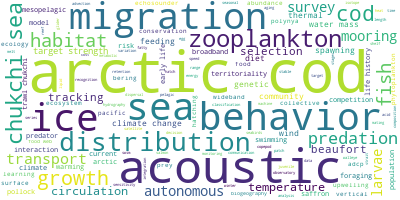
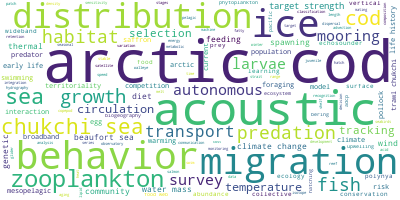
spencer

diff --git a/papers/pacificArctic/fishes/Spencer2020PB.md b/papers/pacificArctic/fishes/Spencer2020PB.md
@@ -1,0 +1,35 @@
+06/03/20
+## Authors:
+Spencer, Mara L. and Vestfals, Cathleen D. and Mueter, Franz J. and Laurel, Benjamin J.
+## Title:
+Ontogenetic changes in the buoyancy and salinity tolerance of eggs and larvae of polar cod (Boreogadus saida) and other gadids
+## Keywords:
+arctic cod, development, egg, egg density, salinity tolerance
+## Geographic Coverage
+N/A
+## Field Dates:
+N/A
+## Significance:
+
+## Notes:
+Climate change in the Arctic and subarctic can change the spatio-temporal dynamics through changes in water inputs and movement, altering dispersal pathways. Early life stage survival depends on the environment in particular the potential to be advected into/across unsuitable habitats. The specific gravity of these eggs and larvae controls the vertical distribution and thus the conditions they are exposed to.
+
+Here, they conduct lab studies to compare the buoyancy and acute salinity of the four dominant north pacific gadid species to test if 1) egg densities for arctic cod match salinities for surface development while pollock for midwater, 2) polar and saffron cod are better suited for abrupt changes in salinity.
+
+Eggs were collected from the AFSC broodstock. Egg and larval specific gravities/densities were determined based on sinking rate at fixed temperature and salinities. Salinity tolerances were tested by putting larvae in beakers of 0,1,2,3,5,ambient, and 35 psu. Preliminary tests of 15 PSU showed no impact hence the lower values. Salinity tolerance was modeled as separate logistic regressions split at 11 psu. Model values from PAROMS were used to identify surface conditions and identify where you would expect positive/negative egg buoyancies based on results.
+
+Arctic cod eggs were more buyant than pollock, and both were more buoyant than pacific cod, with significant density differences among the species prior to hatch. Pacific cod eggs appear to become more buoyant as they develop. As Larvae, pollock and arctic cod buoyancy was identical and positively buoyant. Pcod and saffron cod were also similar and negatively buoyant, though less so than as eggs.
+
+Density significantly changed in Arctic cod from late egg to 2-week post-hatch. Densities varied significantly across batches, however survival was lower with eggs having densities outside of the "middle" range. The inclusion/removal of these batches did not change the significance of the results.
+
+The best fitting models for salinity tolerance were those that considered each species or species and development stage. Salinity tolerance was lost at later development for Acod and pollock, though this was not significant for Acod.at 0-3 weeks post hatch, tolerance was similar, where there was low survival at 0, rapidly increasing to 100% at 5 psu. By 6 wph, this declined, with 100% mortality up to 3 psu. Arctic and saffron cod exhibited similar responses, with 100% survival by 5, and slight reduction at the highest values.
+
+Spatially, Arctic cod eggs were more buoyant than the surface waters in most of the bering/chukchi/beaufort except in the region of direct input from the yukon river. Pollock were positively buoyant on the outer but negatively buyant on the inner and middle shelves.
+
+Conclusions
+- Arctic cod eggs would be retained under sea ice if ice is present at the time of spawning
+- Larval densities converge post-hatch, and for polar cod are similar to the late egg stages
+- Changes in ertical position in the water column are less likely to be the result of density and more so swimming ability and behavioral cues
+- Batch variation could be the result of maternal influence
+- Arctic species were more salinity tolerant than subarctic species and survived short-term exposure to low/no salinity environments, and egg salinities may be more sensitive to salinities up to ~15 PSU
+- Eggs near the surface on the shelf could mean increased ice exposure, which could be lethal for species such as pollock, or increased light exposure for Acod in low ice conditions resulting in increased predation or UV damage.

diff --git a/README.md b/README.md
@@ -314,6 +314,8 @@ Notes (author, year, journal in file header) on readings.  Top of each note docu
      * This was the first fisheries survey of Arctic cod in the NE Chukchi (as far as I know), and showed that there were primarily young of the year A. cod, with a depth-dependent density.  Quast also speculates about the origin of the juvenile cod. 
 * [Skaret2020MEPS - Diel vertical movements determine spatial interactions between cod, pelagic fish and krill on an Arctic shelf bank](https://github.com/leviner/ReadingList/tree/master/papers/pacificArctic/fishes/Skaret2020MEPS.md) 
      * Interactions in the Barents Sea between atlantic cod, pelagic fish, and krill. Use of 3 different acoustic datasets to look at foraging and spatial distribution relationships with the diel cycle. 
+* [Spencer2020PB - Ontogenetic changes in the buoyancy and salinity tolerance of eggs and larvae of polar cod (Boreogadus saida) and other gadids](https://github.com/leviner/ReadingList/tree/master/papers/pacificArctic/fishes/Spencer2020PB.md) 
+     *  
 * [Vestfals2019PB - Distribution of early life stages of Arctic cod and saffron cod in the Pacific Arctic](https://github.com/leviner/ReadingList/tree/master/papers/pacificArctic/fishes/Vestfals2019PB.md) 
      * Vestfals et al aim to narrow down the potential spawning grounds for arctic and saffron cod based on the physical oceanography and summer distribution.  It contains a good review in the intro of the current literature on early life history. 
 * [VikeboMEPS2019 - Drift, growth, and survival of larval Northeast Arctic cod with simple rules of behaviour](https://github.com/leviner/ReadingList/tree/master/papers/pacificArctic/fishes/VikeboMEPS2019.md) 
